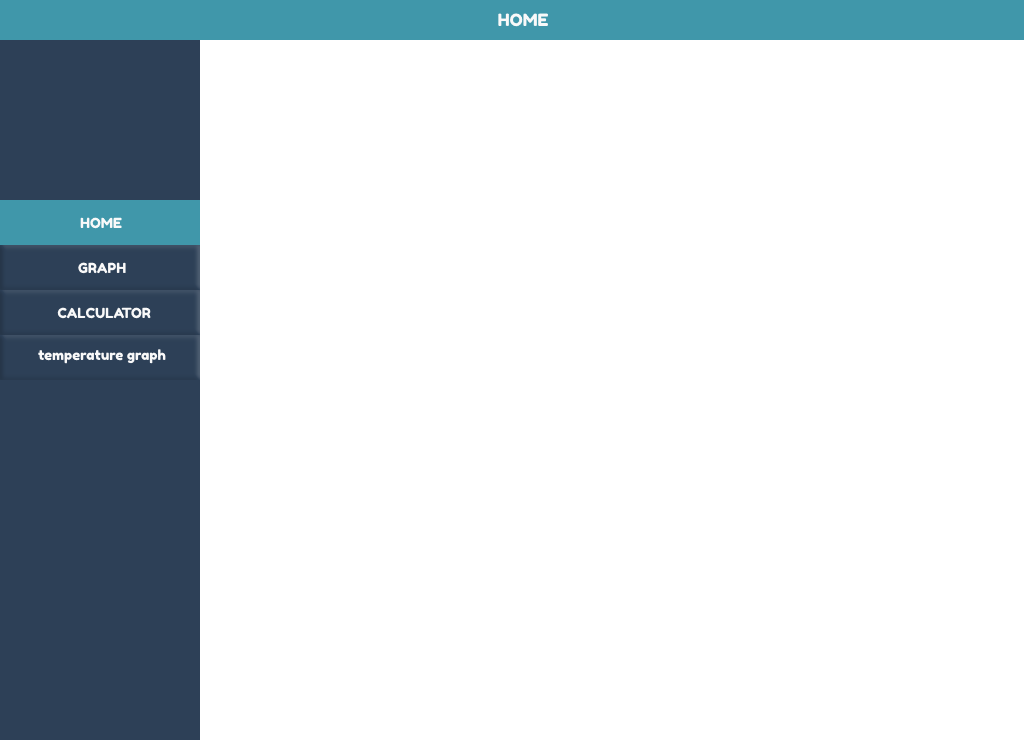
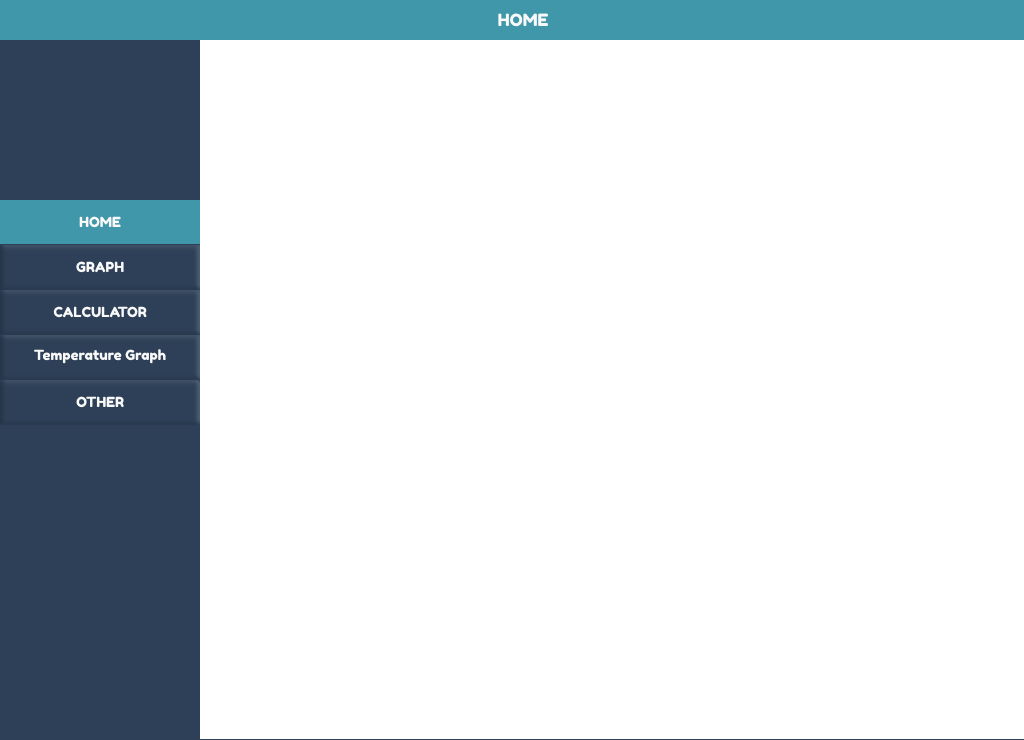
create temp graph page and other page

diff --git a/sc_tempGraph.c b/sc_tempGraph.c
@@ -1,0 +1,69 @@
+#include "mng_window.h"
+
+static void to_home_page (LiteButton *button, void *ctx)
+{
+	
+	changeToPage  	(SC1_HOME);
+}
+
+static void to_graph_page(LiteButton *button,void *ctx)
+{
+	changeToPage  	(SC2_GRAPH);
+
+}
+
+
+static void to_calculator_page (LiteButton *button, void *ctx)
+{
+	
+	changeToPage  	(SC3_CALCULATOR);
+}
+
+static void to_other_page (LiteButton *button, void *ctx)
+{
+	
+	changeToPage  	(SC5_OTHER);
+}
+
+int sc_tempGraph(LiteWindow *window)
+{
+	DFBRectangle		rect;
+	LiteBox 			*box 	= bx[SC4_TEMP_GRAPH];
+	LiteImage     		*backgroundTempGraph;
+	
+	LiteButton			*btnHome_tmpGraph;
+	LiteButton			*btnGraph_tmpGraph;
+	LiteButton			*btnCalculator_tmpGraph;
+	LiteButton			*btnOther_tmpGraph;
+
+	rect.x = 0; rect.y = 0; rect.w = WIDTH; rect.h = HEIGHT; 
+	lite_new_image(box , &rect , liteDefaultImageTheme , &backgroundTempGraph );
+	lite_load_image(backgroundTempGraph , PATH_BACKGROUND "/pebbleTempGraph.png");
+	
+	// -- Button menu --
+
+	rect.x = 0;	rect.y = 200;	rect.w = 200;	rect.h = 45;
+	lite_new_button 				( box , &rect, liteDefaultButtonTheme, &btnHome_tmpGraph);
+	lite_set_button_image  			( btnHome_tmpGraph,	LITE_BS_PRESSED, 	"button/btn_home_press.png");
+	lite_on_button_press  			( btnHome_tmpGraph,	to_home_page, 	(void *)(long)1);
+
+	rect.x = 0;	rect.y = 245;	rect.w = 200;	rect.h = 45;
+	lite_new_button 				( box , &rect, liteDefaultButtonTheme, &btnGraph_tmpGraph);
+	lite_set_button_image  			( btnGraph_tmpGraph,	LITE_BS_PRESSED, 	"button/btn_graph_press.png");
+	lite_on_button_press  			( btnGraph_tmpGraph,	to_graph_page, 	(void *)(long)1);
+	
+	rect.x = 0;	rect.y = 290;	rect.w = 200;	rect.h = 45;
+	lite_new_button 				( box , &rect, liteDefaultButtonTheme, &btnCalculator_tmpGraph);
+	lite_set_button_image  			( btnCalculator_tmpGraph,	LITE_BS_PRESSED, 	"button/btn_cal_press.png");
+	lite_on_button_press  			( btnCalculator_tmpGraph,	to_calculator_page, 	(void *)(long)1);
+
+	rect.x = 0;	rect.y = 380;	rect.w = 200;	rect.h = 45;
+	lite_new_button 				( box , &rect, liteDefaultButtonTheme, &btnOther_tmpGraph);
+	lite_set_button_image  			( btnOther_tmpGraph,	LITE_BS_PRESSED, 	"button/btn_other_press.png");
+	lite_on_button_press  			( btnOther_tmpGraph,	to_other_page, 	(void *)(long)1);
+
+
+
+
+	return 0;
+}

diff --git a/sc_graph.c b/sc_graph.c
@@ -35,6 +35,18 @@ static void to_cal_page (LiteButton *button, void *ctx){
 	changeToPage  	(SC3_CALCULATOR);
 }
 
+static void to_temp_graph_page (LiteButton *button, void *ctx)
+{
+	
+	changeToPage  	(SC4_TEMP_GRAPH);
+}
+
+static void to_other_page (LiteButton *button, void *ctx)
+{
+	
+	changeToPage  	(SC5_OTHER);
+}
+
 static void func_plot_graph_press (LiteTextButton *button, void *ctx)
 {
 	char *bString, *mString;
@@ -53,6 +65,8 @@ int sc_graph(LiteWindow *window)
     LiteImage     		*backgroundGraph;
     LiteButton 			*btnHome_graph;
     LiteButton 			*btnCalculator_graph;
+    LiteButton			*btnTempGraph_graph;
+	LiteButton			*btnOther_graph;
 
 	//box->background 	= &Silver;
 
@@ -69,6 +83,16 @@ int sc_graph(LiteWindow *window)
 	lite_new_button 			( box , &rect , liteDefaultButtonTheme , &btnCalculator_graph );
 	lite_set_button_image  		( btnCalculator_graph ,	LITE_BS_PRESSED , "button/btn_cal_press.png" );
 	lite_on_button_press  		( btnCalculator_graph ,	to_cal_page , 	(void *)(long)1 );
+
+	rect.x = 0;	rect.y = 335;	rect.w = 200;	rect.h = 45;
+	lite_new_button 			( box , &rect , liteDefaultButtonTheme , &btnTempGraph_graph);
+	lite_set_button_image  		( btnTempGraph_graph ,	LITE_BS_PRESSED , "button/btn_temp_graph_press.png" );
+	lite_on_button_press  		( btnTempGraph_graph ,	to_temp_graph_page, 	(void *)(long)1);
+
+	rect.x = 0;	rect.y = 380;	rect.w = 200;	rect.h = 45;
+	lite_new_button 			( box , &rect , liteDefaultButtonTheme , &btnOther_graph );
+	lite_set_button_image  		( btnOther_graph ,	LITE_BS_PRESSED , "button/btn_other_press.png" );
+	lite_on_button_press  		( btnOther_graph ,	to_other_page , 	(void *)(long)1 );
 
 	/* ------------ graphBox Main Box ------------ */
 	lite_new_box				( &graphBox , box , WIDTH - WIDTH_GRAPH_BOX /* 1024-824 = 200 */ , 40 , WIDTH_GRAPH_BOX , HEIGHT_GRAPH_BOX );  

diff --git a/sc_home.c b/sc_home.c
@@ -15,11 +15,26 @@ static void to_calculator_page (LiteButton *button, void *ctx)
 	changeToPage  	(SC3_CALCULATOR);
 }
 
+static void to_temp_graph_page (LiteButton *button, void *ctx)
+{
+	
+	changeToPage  	(SC4_TEMP_GRAPH);
+}
+
+static void to_other_page (LiteButton *button, void *ctx)
+{
+	
+	changeToPage  	(SC5_OTHER);
+}
+
+
 int home_mng(LiteWindow *window)
 {
     LiteImage     		*backgroundHome;
 	LiteButton			*btnGraph_home;
 	LiteButton			*btnCalculator_home;
+	LiteButton			*btnTempGraph_home;
+	LiteButton			*btnOther_home;
 
 
 	DFBRectangle		rect;
@@ -40,6 +55,15 @@ int home_mng(LiteWindow *window)
 	lite_set_button_image  			( btnCalculator_home,	LITE_BS_PRESSED, 	"button/btn_cal_press.png");
 	lite_on_button_press  			( btnCalculator_home,	to_calculator_page, 	(void *)(long)1);
 	
+	rect.x = 0;	rect.y = 335;	rect.w = 200;	rect.h = 45;
+	lite_new_button 				( box , &rect, liteDefaultButtonTheme, &btnTempGraph_home);
+	lite_set_button_image  			( btnTempGraph_home,	LITE_BS_PRESSED, 	"button/btn_temp_graph_press.png");
+	lite_on_button_press  			( btnTempGraph_home,	to_temp_graph_page, 	(void *)(long)1);
+
+	rect.x = 0;	rect.y = 380;	rect.w = 200;	rect.h = 45;
+	lite_new_button 				( box , &rect, liteDefaultButtonTheme, &btnOther_home);
+	lite_set_button_image  			( btnOther_home,	LITE_BS_PRESSED, 	"button/btn_other_press.png");
+	lite_on_button_press  			( btnOther_home,	to_other_page, 	(void *)(long)1);
 	// -- set state visible --
 	lite_set_box_visible(box, 0);
 	return 0;

diff --git a/mng_window.c b/mng_window.c
@@ -5,12 +5,14 @@ LiteTextButtonTheme		*txtBtnTheme;
 
 DFBColor 				black 			= { a: 255, r: 0, g: 0, b: 0};
 
-LiteBox				*bx[3];
+LiteBox				*bx[5];
 int 				currPage 	= 	-1;
 
 extern int home_mng(LiteWindow *window);
 extern int sc_graph(LiteWindow *window);
 extern int sc_cal(LiteWindow *window);
+extern int sc_tempGraph(LiteWindow *window);
+extern int sc_other(LiteWindow *window);
 
 
 static
@@ -20,7 +22,7 @@ void createCmp()
 	lite_new_text_button_theme ("./button/btn_img.png", &txtBtnTheme);
 
 	/* create box */
-	for(int i = 0; i < 3; i++) {
+	for(int i = 0; i < 5; i++) {
 		if(bx[i]) lite_destroy_box(bx[i]); // check if bx is not empty , destroy the bx first
 		
 			lite_new_box  		(&bx[i], LITE_BOX(window), 0, 0, WIDTH, HEIGHT);
@@ -30,6 +32,8 @@ void createCmp()
 	home_mng(window);
 	sc_cal(window);
 	sc_graph(window);
+	sc_tempGraph(window);
+	sc_other(window);
 
 
 	// set first screen

diff --git a/sc_other.c b/sc_other.c
@@ -1,0 +1,20 @@
+#include "mng_window.h"
+
+int sc_other(LiteWindow *window)
+{
+	DFBRectangle		rect;
+	LiteBox 			*box 	= bx[SC5_OTHER];
+	LiteImage     		*backgroundOther;
+	
+	LiteButton			*btnHome_tmpGraph;
+	LiteButton			*btnGraph_tmpGraph;
+	LiteButton			*btnCalculator_tmpGraph;
+	LiteButton			*btnOther_tmpGraph;
+
+	rect.x = 0; rect.y = 0; rect.w = WIDTH; rect.h = HEIGHT; 
+	lite_new_image(box , &rect , liteDefaultImageTheme , &backgroundOther );
+	lite_load_image(backgroundOther , PATH_BACKGROUND "/pebbleOther.png");
+	
+
+	return 0;
+}

diff --git a/mng_window.h b/mng_window.h
@@ -23,6 +23,8 @@ typedef enum {
 	SC1_HOME = 0,		// screen Home page
 	SC2_GRAPH,			// screen Graph page
 	SC3_CALCULATOR,		// screen Calculator page
+	SC4_TEMP_GRAPH,		// screen Temperator graph page
+	SC5_OTHER,			// screen Other page
 
 	SC_MAX
 } window_page;
